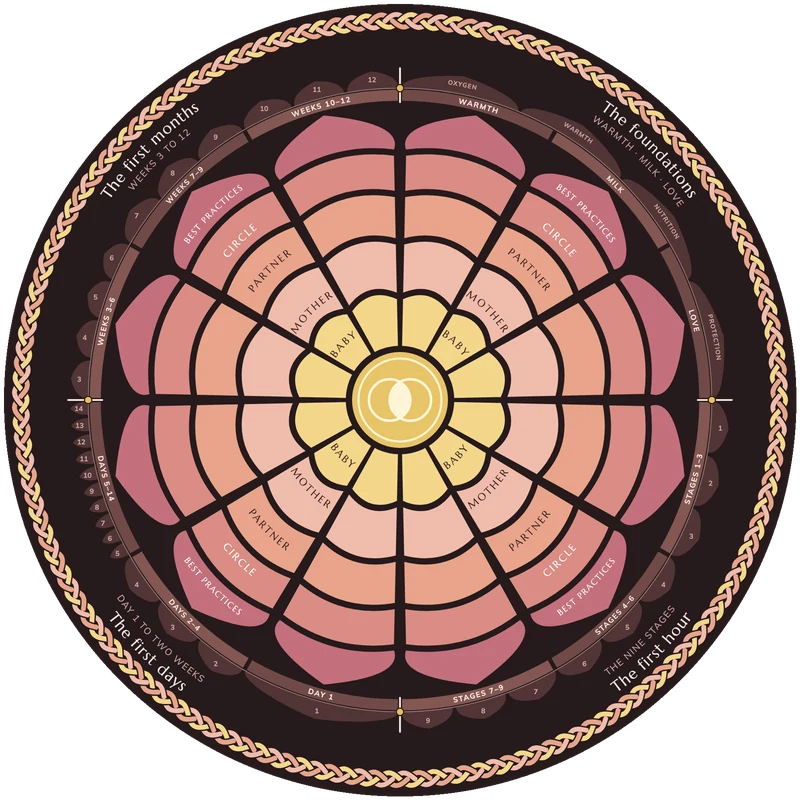
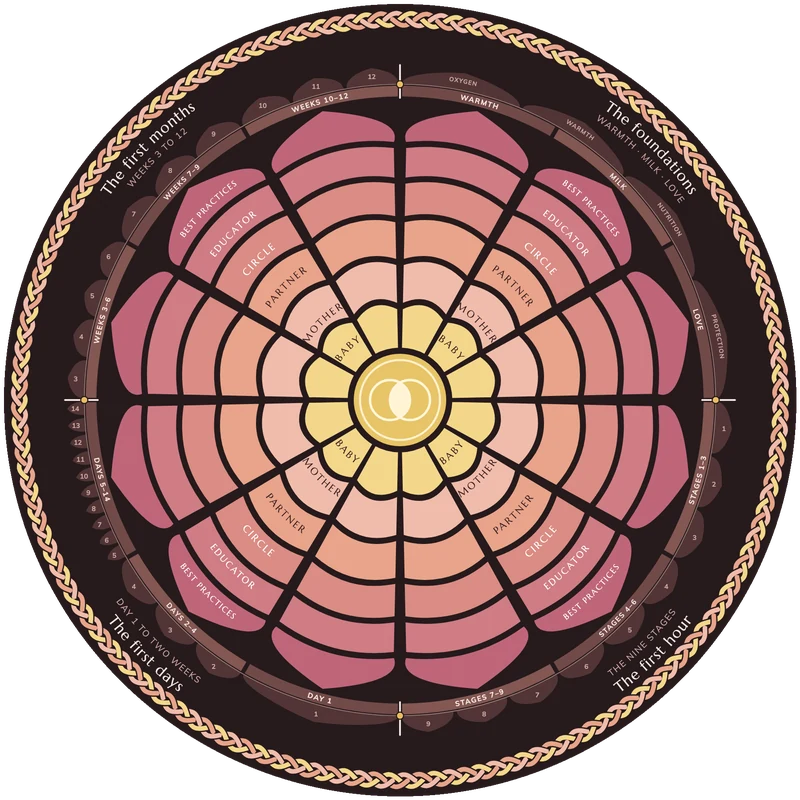
Fourth Trimester card: the new wheel with its educator ring

Changed region(s): [[0.0, 0.0, 1.0, 1.0]]

diff --git a/index.html b/index.html
@@ -93,7 +93,7 @@ const MANDALAS=[
    alt:"Coral petals around a Seed of Life, ringed by the forty weeks, birth, and the first hour"},
   {name:"The Fourth Trimester Mandala", href:"https://erinsarita.github.io/fourth-trimester-mandala/", img:"img/fourth-trimester.webp", imgDark:"img/fourth-trimester-dark.webp", themeKey:"ft-theme",
    eyebrow:"The fourth trimester", tint:["#B85E6E","#F0BCAB"],
-   text:"A teaching map of the first twelve weeks after birth, from the center out: mother and baby as one, the partner and circle who hold them, and best practices from the first hour through the first months.",
+   text:"A teaching map of the first twelve weeks after birth, from the center out: mother and baby as one, the partner and circle who hold them, the educator with the science behind each moment, and best practices from the first hour through the first months.",
    alt:"A golden dyad of two overlapping circles at the center, warming through blush and rose petals, ringed by the first hour, the first days, and the first months"},
   {name:"The Return Mandala", href:"https://erinsarita.github.io/return-mandala/", img:"img/return.webp", imgDark:"img/return-dark.webp", themeKey:"rm-theme",
    eyebrow:"Prenatal and perinatal healing", tint:["#6E4E92","#BFA3E4"],
